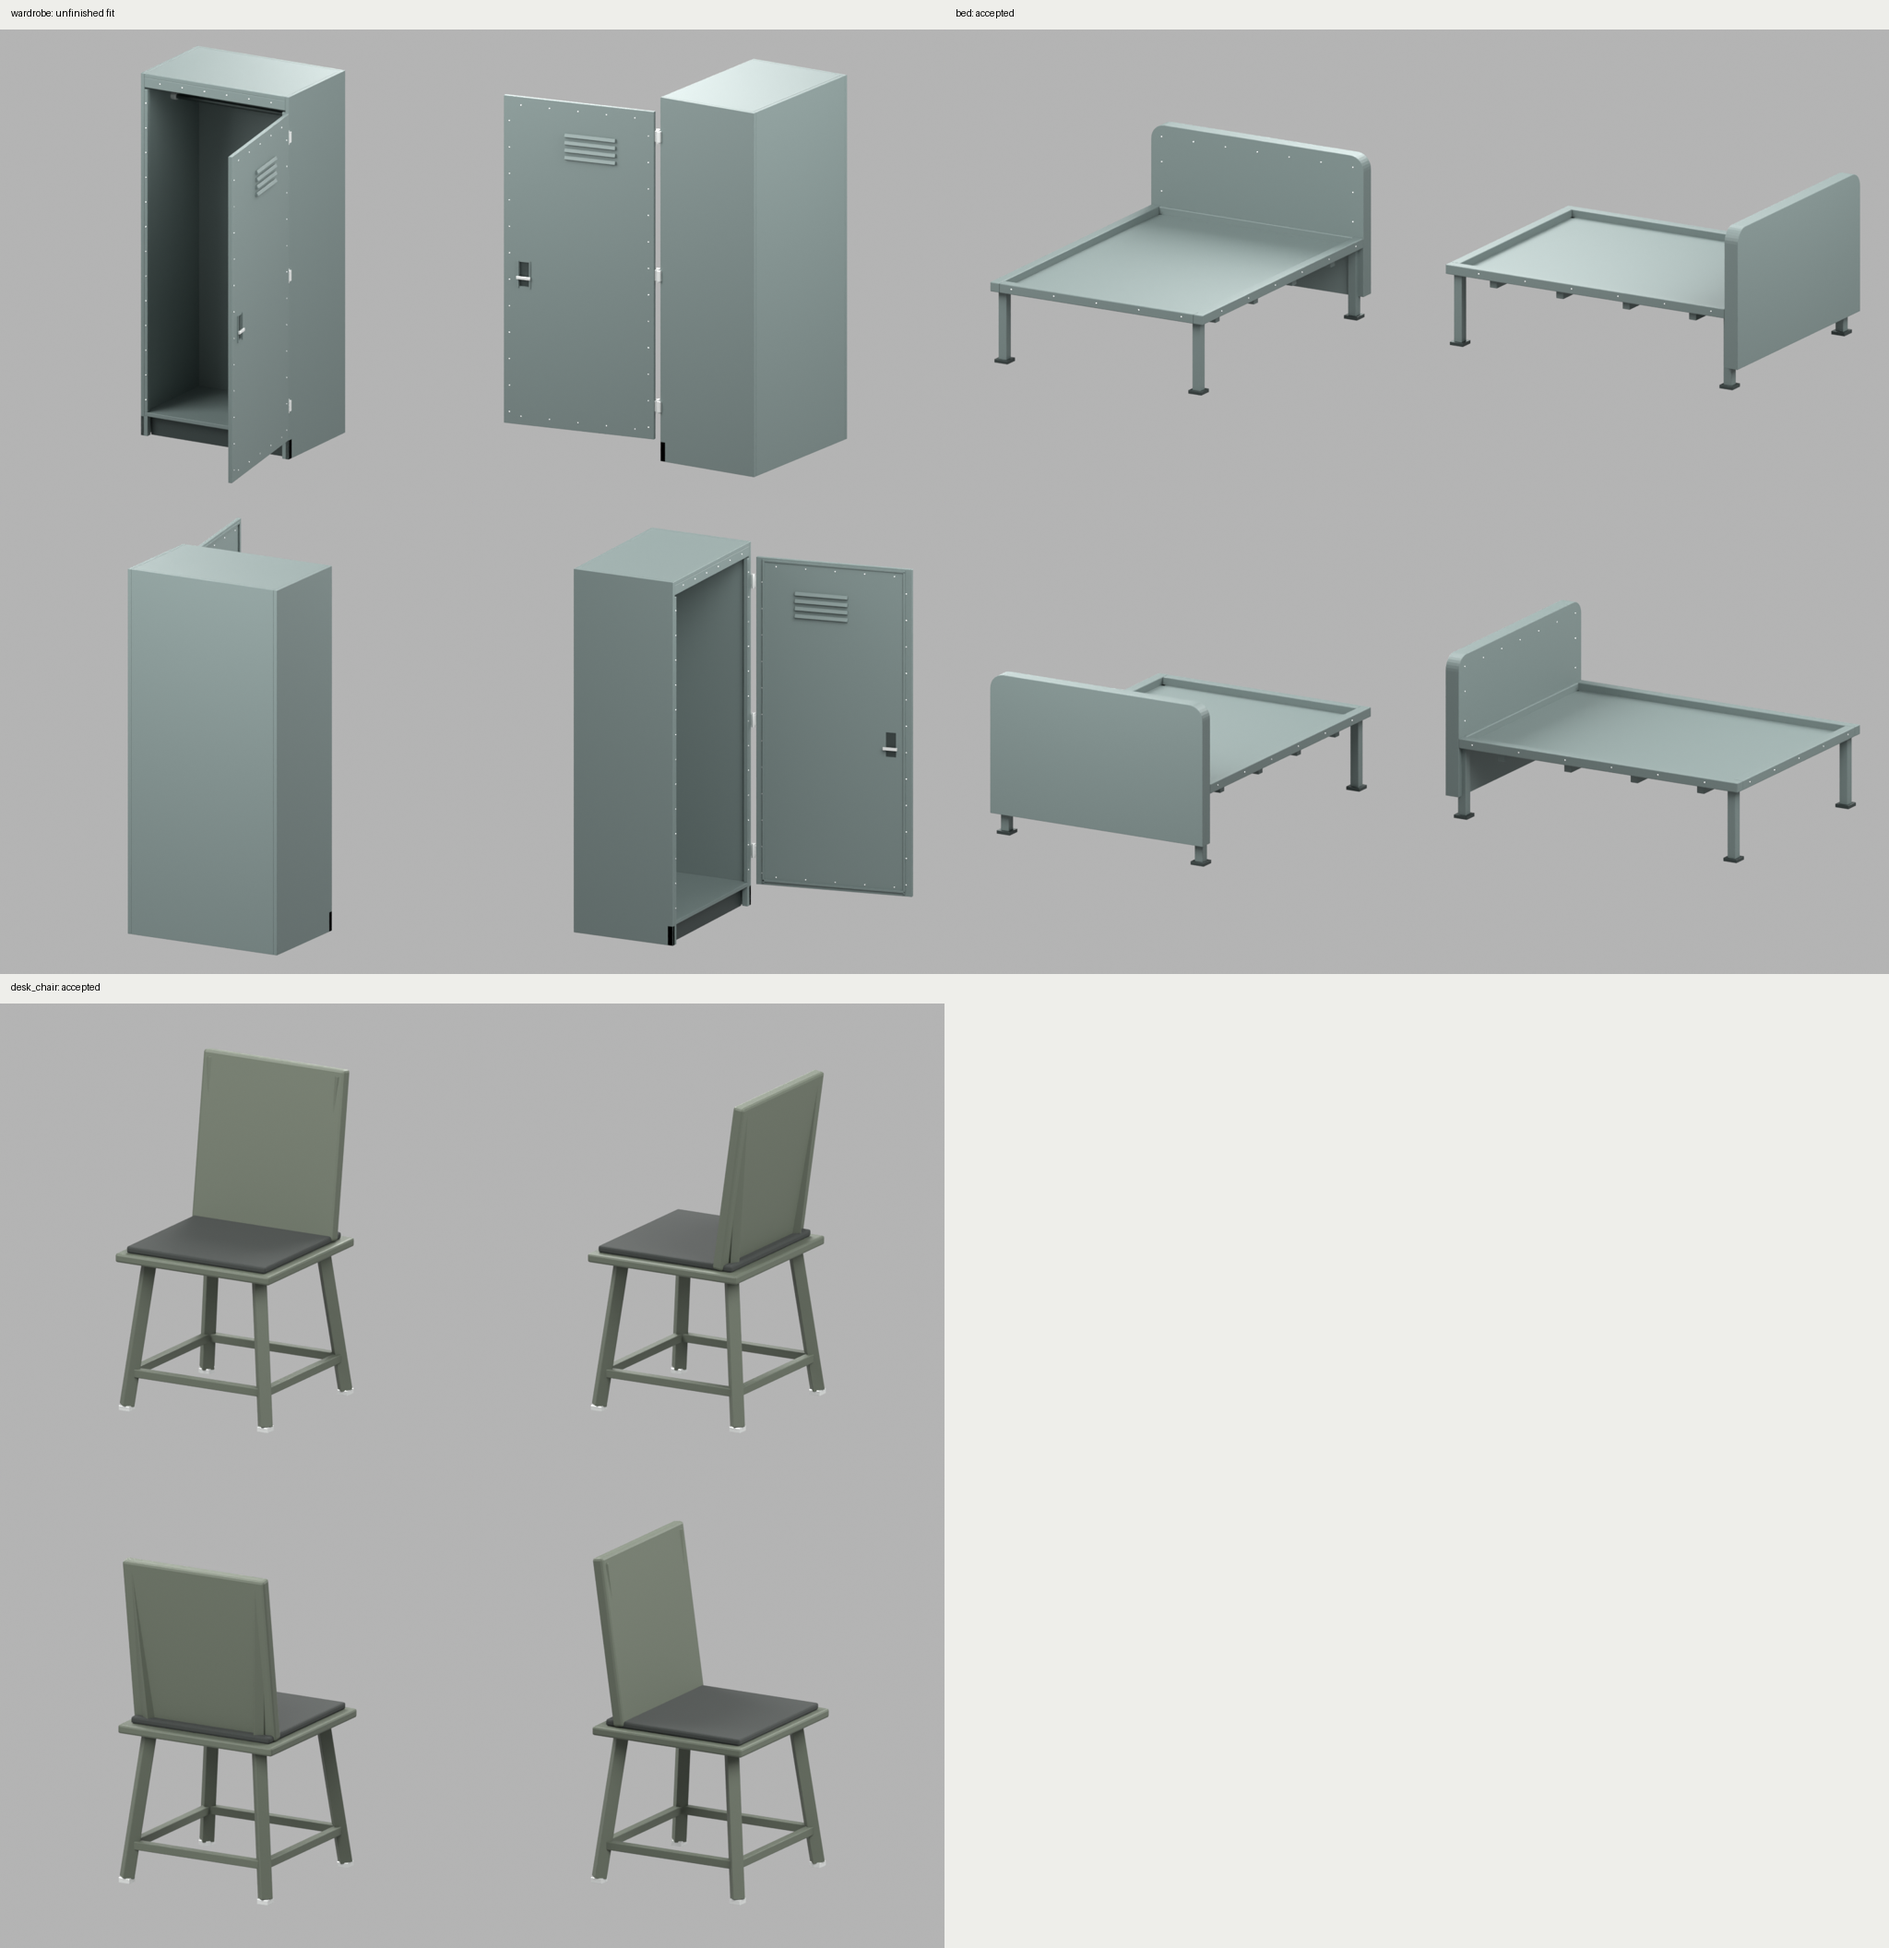
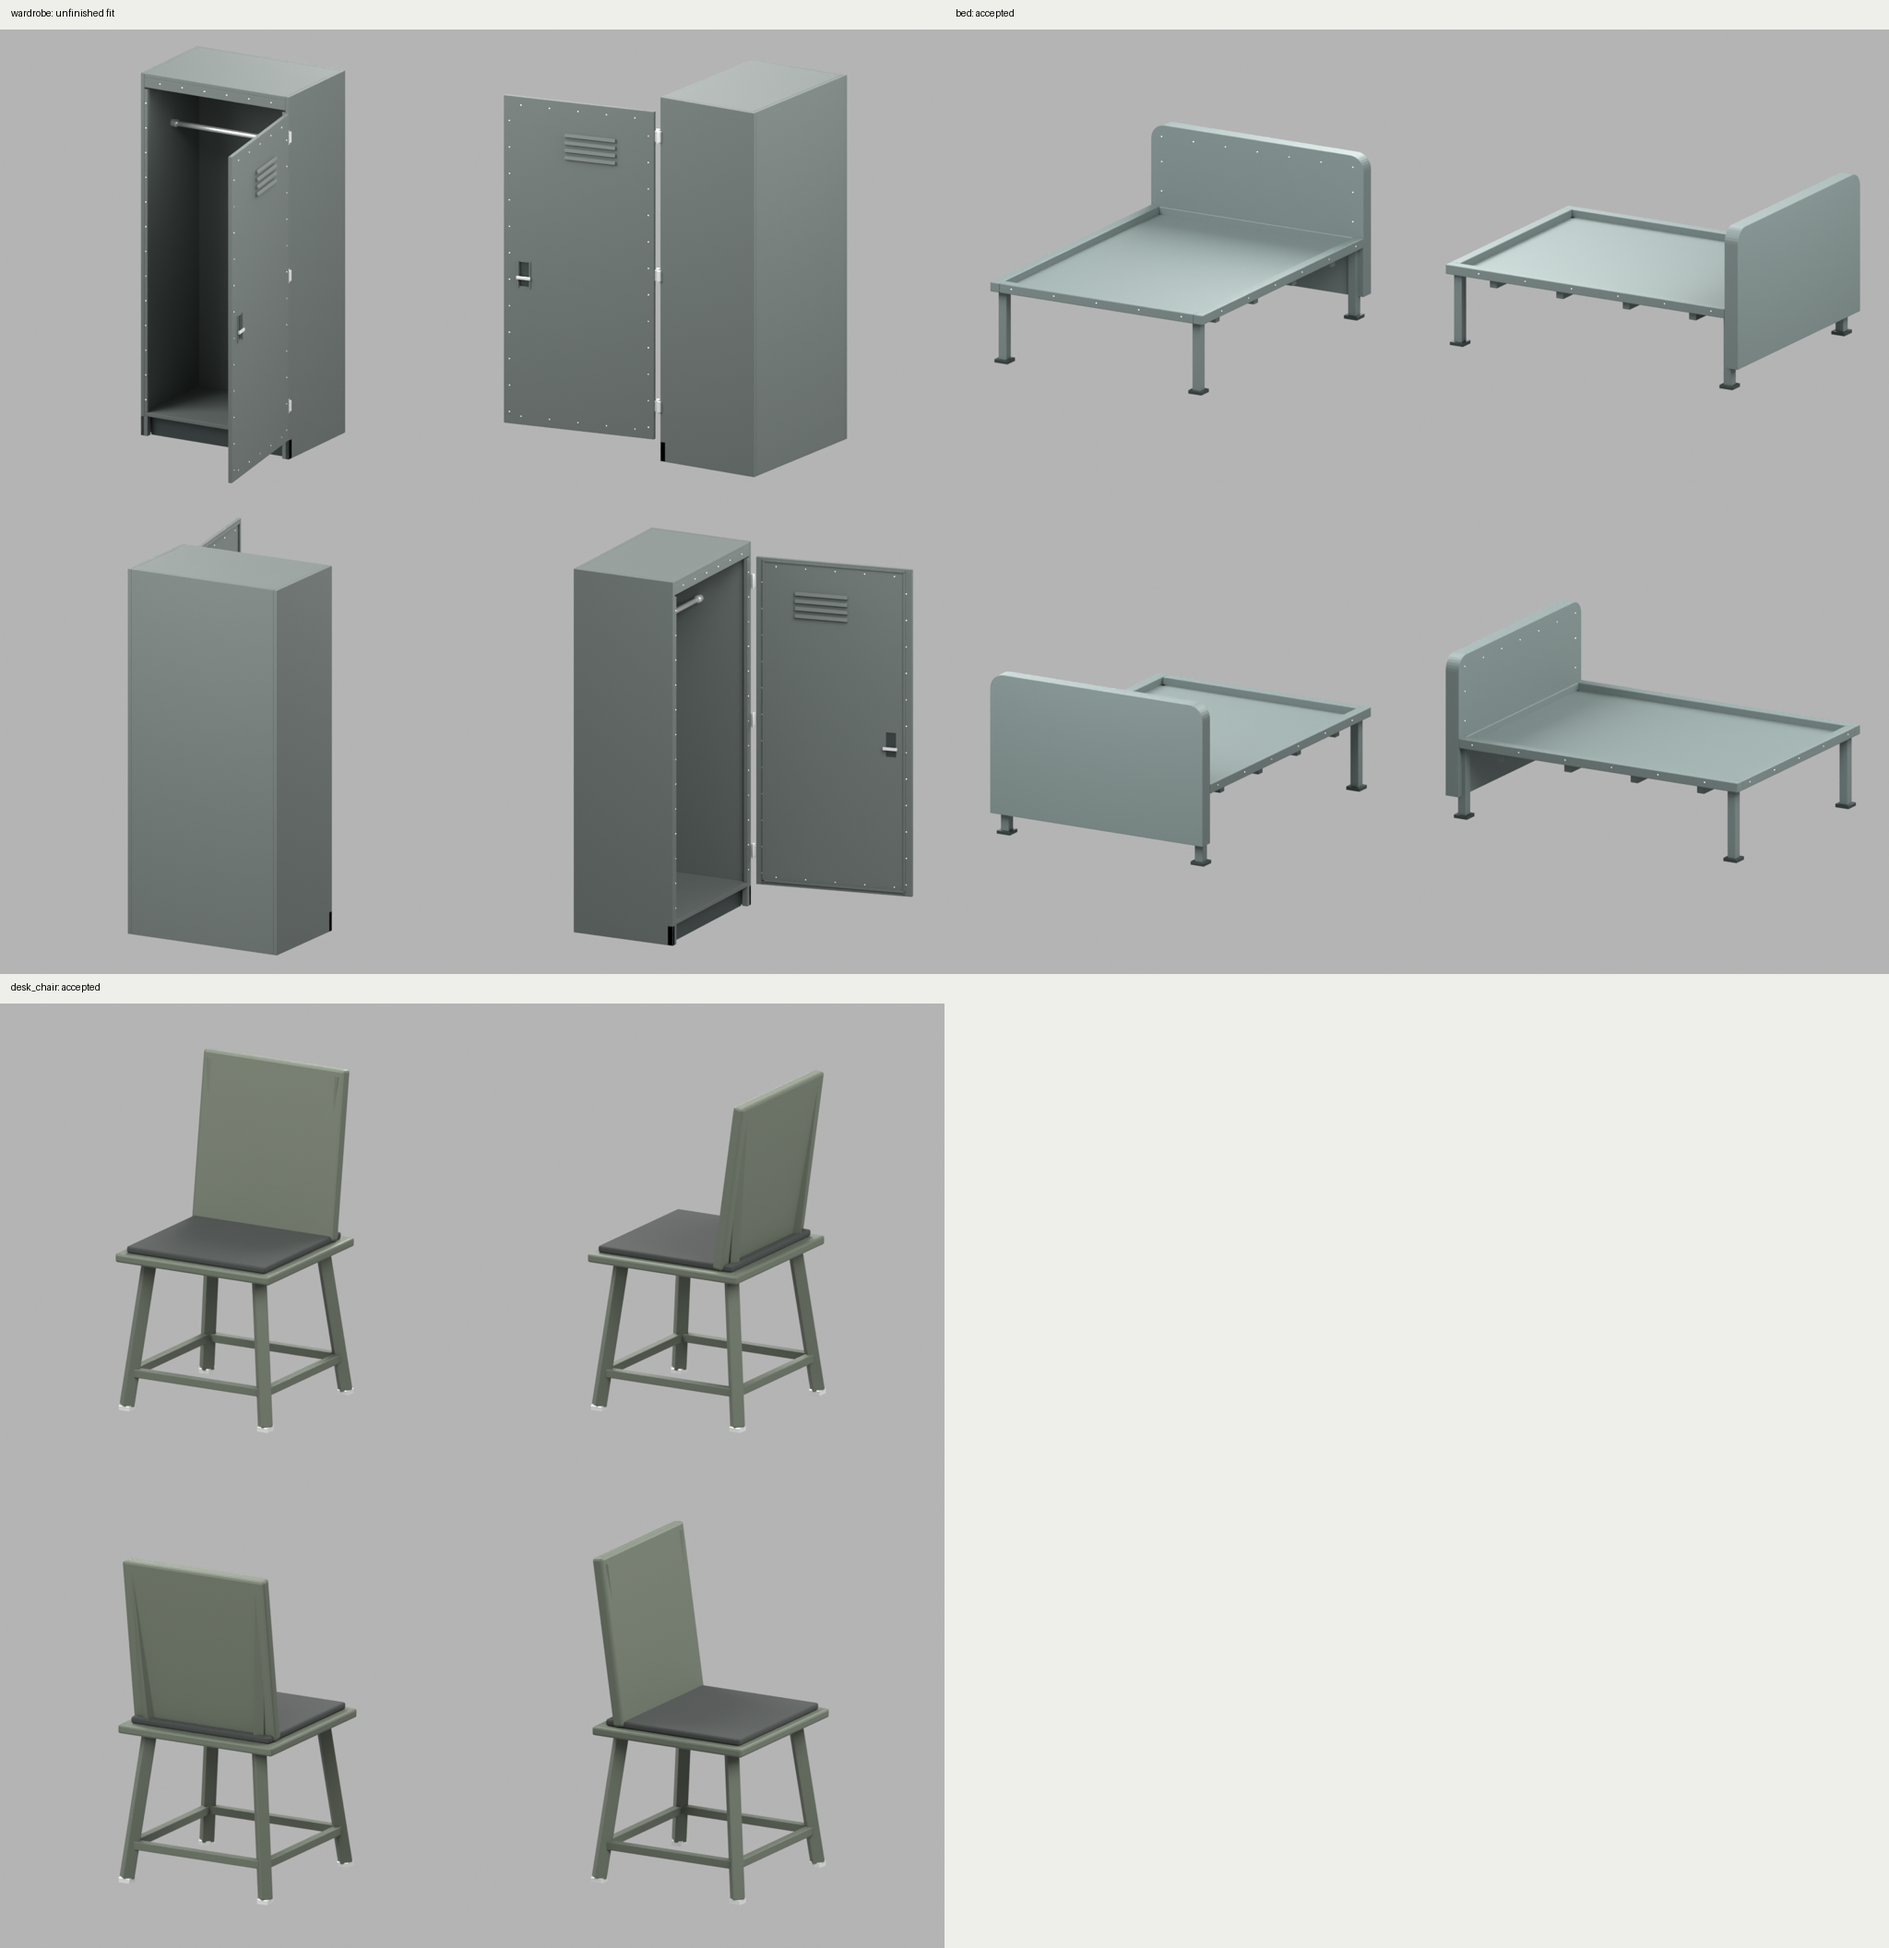
Match prop visibility checks to the capture camera (#95)

diff --git a/tools/blender/quarters/wardrobe/verify_common.py b/tools/blender/quarters/wardrobe/verify_common.py
@@ -67,26 +67,36 @@ def closure(mesh):
             'pass':bool(misses==0 and mesh.is_watertight and mesh.is_winding_consistent and all(p.volume>0 for p in components))}
 
 
-def visibility(meshes, combined, camera, names):
+def visibility(meshes, combined, camera, names, orthographic_target=None):
     offsets={}; offset=0
     for name,mesh in meshes.items():
         offsets[name]=(offset,offset+len(mesh.faces)); offset+=len(mesh.faces)
+    if orthographic_target is not None:
+        forward=orthographic_target-camera
+        forward/=np.linalg.norm(forward)
     result={}
     for name in names:
         mesh=meshes[name]
-        toward=camera-mesh.triangles_center
+        toward=(camera-mesh.triangles_center if orthographic_target is None else -forward)
         front=(mesh.face_normals*toward).sum(axis=1)>0
         ids=np.where(front)[0]
         target=mesh.triangles_center[ids]
-        dirs=target-camera; distances=np.linalg.norm(dirs,axis=1)
-        dirs/=distances[:,None]
-        face=combined.ray.intersects_first(np.repeat(camera[None,:],len(ids),axis=0),dirs)
+        if orthographic_target is None:
+            dirs=target-camera; distances=np.linalg.norm(dirs,axis=1)
+            dirs/=distances[:,None]
+            origins=np.repeat(camera[None,:],len(ids),axis=0)
+            weights=mesh.area_faces[ids]*np.maximum(0,-(mesh.face_normals[ids]*dirs).sum(axis=1))/distances**2
+        else:
+            dirs=np.repeat(forward[None,:],len(ids),axis=0)
+            origins=target-((target-camera)@forward)[:,None]*forward
+            weights=mesh.area_faces[ids]*np.maximum(0,-(mesh.face_normals[ids]*dirs).sum(axis=1))
+        face=combined.ray.intersects_first(origins,dirs)
         low,high=offsets[name]
         visible=(face>=low)&(face<high)
-        weights=mesh.area_faces[ids]*np.maximum(0,-(mesh.face_normals[ids]*dirs).sum(axis=1))/distances**2
         fraction=float(np.sum(weights[visible])/np.sum(weights))
         result[name]={'sample_count':len(ids),'visible_projected_area_fraction':fraction,
                       'visible_triangle_fraction':float(visible.mean()),
+                      'projection':'perspective' if orthographic_target is None else 'orthographic',
                       'minimum':.60,'pass':fraction>=.60}
     return result
 
@@ -115,7 +125,9 @@ def verify(path,spec_path,report_path,reexport):
                       'pass':bool(np.max(np.abs(matrix[:3,3]-expected))<.001)}
     materials=sorted({m.visual.material.name for m in meshes.values()})
     uv=uv_report(meshes)
-    vis=visibility(meshes,combined,np.array(spec['hero_camera_gltf']),spec['visible_details'])
+    tx,ty,tz=spec['hero_target_native']
+    vis=visibility(meshes,combined,np.array(spec['hero_camera_gltf']),spec['visible_details'],
+                   orthographic_target=np.array([tx,tz,-ty]))
     tri=sum(len(m.faces) for m in meshes.values())
     byte_identical=Path(path).read_bytes()==Path(reexport).read_bytes()
     report={'asset':spec['id'],'bounds_gltf':{'actual':body.bounds.tolist(),'expected':target.tolist(),

diff --git a/tools/blender/quarters/wardrobe/test_verify.py b/tools/blender/quarters/wardrobe/test_verify.py
@@ -35,6 +35,20 @@ class ExportChecks(unittest.TestCase):
         combined=trimesh.util.concatenate([mesh,blocker])
         report=visibility({'detail':mesh,'blocker':blocker},combined,np.array([0,0,3.]),['detail'])
         self.assertFalse(report['detail']['pass'])
+    def test_orthographic_occlusion_uses_parallel_rays(self):
+        detail=trimesh.creation.box(extents=[.2,.2,.2])
+        detail.apply_translation([1,0,0])
+        blocker=trimesh.creation.box(extents=[.3,.3,.1])
+        blocker.apply_translation([1,0,1])
+        meshes={'detail':detail,'blocker':blocker}
+        combined=trimesh.util.concatenate(list(meshes.values()))
+        camera=np.array([0,0,3.])
+        perspective=visibility(meshes,combined,camera,['detail'])
+        orthographic=visibility(meshes,combined,camera,['detail'],
+                                orthographic_target=np.zeros(3))
+        self.assertTrue(perspective['detail']['pass'])
+        self.assertFalse(orthographic['detail']['pass'])
+
 
     def uv_mesh(self,coordinates):
         mesh=trimesh.Trimesh(

diff --git a/docs/art/quarters/README.md b/docs/art/quarters/README.md
@@ -1251,17 +1251,17 @@ Rigid furniture follows the pilot's approved image, full Hunyuan3D-2mv guide and
 
 Authoring uses Blender Z-up with front -Y; exports have +Y up and front +Z, with floor-centred asset roots. Dimensions are asset-local width, height and depth. Wall and desktop mounting heights belong to room placement. Wardrobe bounds refer to its closed carcass, excluding the parked leaf and mating hinge hardware; its open envelope is measured separately. The bed includes the separate layout headboard height and leaves its mattress platform exposed.
 
-Verification reads the exported GLB through trimesh. It checks the layout envelope within 10 mm, floor origin, named parts and material classes, positive closed shells, winding, inward rays across all six faces of each shell, hero-camera first hits, UV triangle overlap and consistent physical texel density, triangle budget and byte-identical export from the saved source. Visibility is weighted by projected surface area. Seven positive and negative controls cover closure, winding, UV overlap and occlusion. The wardrobe adds five-face carcass rays, a 0.5-degree door sweep and unobstructed hanging-space rays. Each `verify.json` records measured values and limits.
+Verification reads the exported GLB through trimesh. It checks the layout envelope within 10 mm, floor origin, named parts and material classes, positive closed shells, winding, inward rays across all six faces of each shell, capture-matched orthographic hero-camera first hits, UV triangle overlap and consistent physical texel density, triangle budget and byte-identical export from the saved source. Visibility is weighted by projected surface area. Eight positive and negative controls cover closure, winding, UV overlap and occlusion, including an off-axis case that distinguishes orthographic from perspective visibility. The wardrobe adds five-face carcass rays, a 0.5-degree door sweep and unobstructed hanging-space rays. Each `verify.json` records measured values and limits.
 
 | Prop | Picked seed | Hunyuan wall seconds | Triangles | Export checks | Fit rating | Status | Remaining visual defects |
 | --- | --- | --- | --- | --- | --- | --- | --- |
-| wardrobe | 203 | 187.81 | 9,056 | Pass | 6/10 | Not accepted | Top surface material mismatch: B is white, A is grey-green.; Door louvre count mismatch: B has 3 louvres, A has 4.; Missing rivet detail on the door in B. |
+| wardrobe | 203 | 187.81 | 11,016 | Pass | 4/10 | Not accepted | Top surface geometry mismatch: B has a protruding, light-colored roof panel that overhangs the carcass, whereas A has a flat, flush top in the same grey-green color.; Missing interior hardware: The bare-steel horizontal hanging rail visible in A is completely absent in B.; Color mismatch on top: The top panel in B is a distinct light color (white/pale grey) compared to the uniform grey-green of the rest of the object and the top of A.; Proportion/Silhouette deviation: The overhanging top in B alters the vertical proportions and silhouette compared to the clean, boxy profile of A. |
 | bed | 216 | 177.60 | 3,512 | Pass | 9/10 | Accepted fit | In image B, the rivets on the headboard appear slightly irregular in spacing and size, potentially looking like noise rather than precise manufacturing details.; The 'folded panel edges' mentioned in the brief are not clearly distinct in B; the edges look flat rather than folded over. |
 | desk_chair | 244 | 175.21 | 2,032 | Pass | 8/10 | Accepted fit | The small bare steel rivets on the corner plates in B are less distinct than in A, potentially due to lighting or resolution.; The fabric texture on the seat pad in B appears slightly smoother and less detailed than in A. |
 
 ### Rebuilding and checking
 
-For example, run Blender with `--background --factory-startup --python-exit-code 1 --python tools/blender/quarters/wardrobe/build.py -- --assemble` to fit from `tmp/props/wardrobe/guide.glb`. Each prop's default guide has the same scratch path pattern. Omit `--assemble` to export directly from the committed `.blend` without scratch inputs. Supply `--output tmp/props/wardrobe/reexport.glb` for an independent second export, then run the local Hunyuan Python on `tools/blender/quarters/wardrobe/verify.py --reexport tmp/props/wardrobe/reexport.glb`. Run `tools/blender/quarters/wardrobe/test_verify.py` for the seven gate controls. Other props use the wardrobe's shared construction and verification helpers. `construction.json` records cameras, guide landmarks and part hierarchies.
+For example, run Blender with `--background --factory-startup --python-exit-code 1 --python tools/blender/quarters/wardrobe/build.py -- --assemble` to fit from `tmp/props/wardrobe/guide.glb`. Each prop's default guide has the same scratch path pattern. Omit `--assemble` to export directly from the committed `.blend` without scratch inputs. Supply `--output tmp/props/wardrobe/reexport.glb` for an independent second export, then run the local Hunyuan Python on `tools/blender/quarters/wardrobe/verify.py --reexport tmp/props/wardrobe/reexport.glb`. Run `tools/blender/quarters/wardrobe/test_verify.py` for the eight gate controls. Other props use the wardrobe's shared construction and verification helpers. `construction.json` records cameras, guide landmarks and part hierarchies.
 
 ### Bed platform
 
